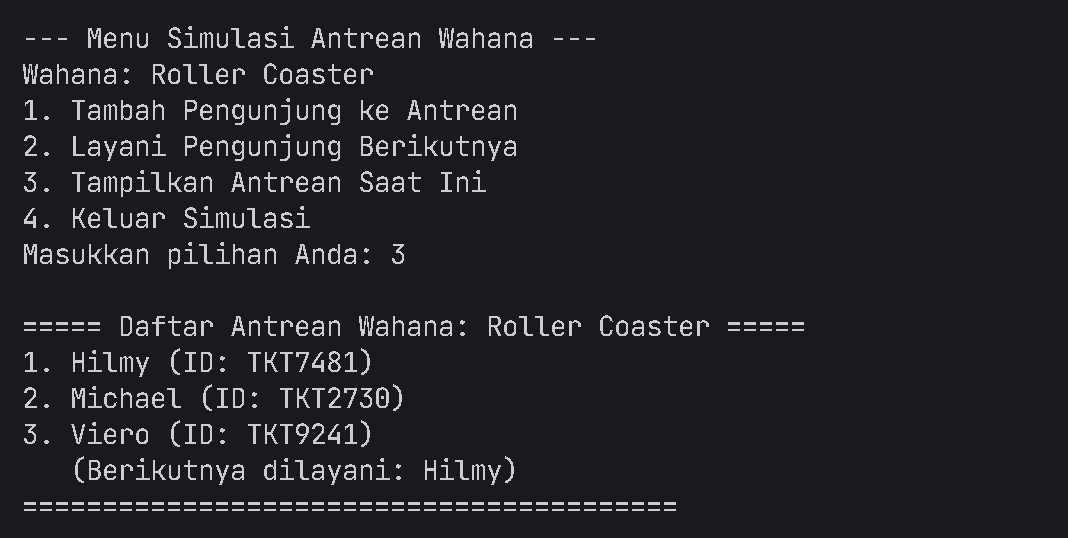
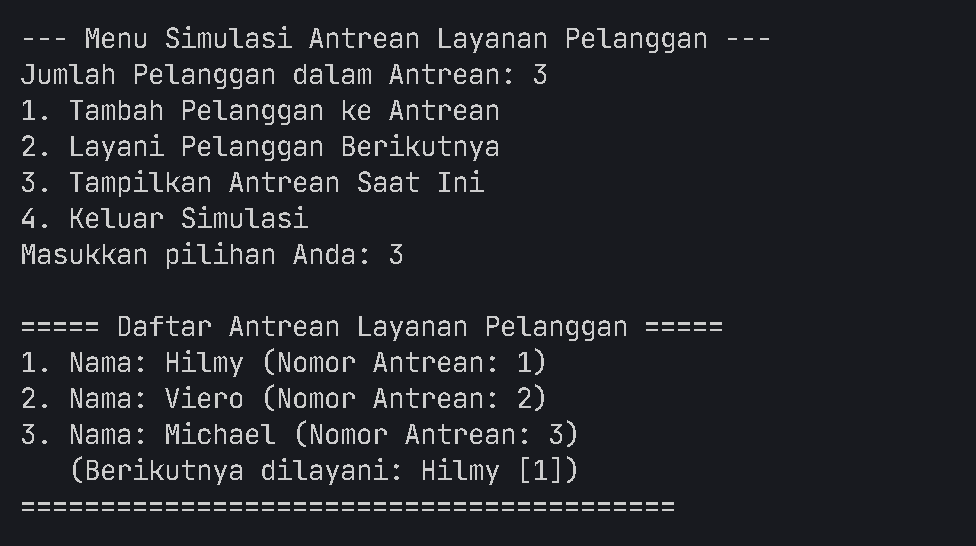
refactor: Adapt queue simulation for customer service context

diff --git a/Queue/AntreanLayananPelanggan.java b/Queue/AntreanLayananPelanggan.java
@@ -1,0 +1,101 @@
+package Queue; // Gunakan nama package yang sama
+
+import java.util.LinkedList;
+import java.util.Queue;
+
+
+/**
+ * Class untuk mengelola antrean layanan pelanggan menggunakan Queue berbasis LinkedList.
+ */
+public class AntreanLayananPelanggan {
+    // Menggunakan LinkedList sebagai implementasi Queue untuk Pelanggan
+    private Queue<Pelanggan> antrean;
+    private int nomorAntreanTerakhir; // Counter untuk nomor antrean berikutnya
+
+    public AntreanLayananPelanggan() {
+        this.antrean = new LinkedList<>(); // Inisialisasi antrean
+        this.nomorAntreanTerakhir = 0; // Mulai nomor antrean dari 0 (akan jadi 1 saat pertama kali tambah)
+        System.out.println("Sistem Antrean Layanan Pelanggan telah dibuka.");
+    }
+
+    /**
+     * Menambahkan pelanggan baru ke akhir antrean.
+     * @param namaPelanggan Nama dari pelanggan yang akan ditambahkan.
+     * @return Nomor antrean yang didapatkan pelanggan.
+     * @throws IllegalArgumentException jika nama pelanggan kosong.
+     */
+    public int tambahPelanggan(String namaPelanggan) {
+        // Validasi nama bisa dilakukan di sini atau di class Pelanggan
+        if (namaPelanggan == null || namaPelanggan.trim().isEmpty()) {
+             System.out.println("Gagal menambahkan: Nama pelanggan tidak boleh kosong.");
+             return -1; // Indikasi gagal
+             // atau throw new IllegalArgumentException("Nama pelanggan tidak boleh kosong.");
+        }
+
+        int nomorBaru = ++nomorAntreanTerakhir; // Increment dulu baru pakai
+        Pelanggan pelangganBaru = new Pelanggan(namaPelanggan, nomorBaru);
+        boolean berhasilDitambah = antrean.offer(pelangganBaru); // offer() lebih aman
+
+        if (berhasilDitambah) {
+            System.out.println("-> Pelanggan '" + pelangganBaru.getNama() + "' dengan nomor antrean [" + pelangganBaru.getNomorAntrean() + "] telah ditambahkan.");
+            return nomorBaru;
+        } else {
+            System.out.println("Gagal menambahkan pelanggan '" + namaPelanggan + "' ke antrean (Mungkin karena masalah kapasitas?).");
+            nomorAntreanTerakhir--; // Batalkan increment jika gagal
+            return -1; // Indikasi gagal
+        }
+    }
+
+    /**
+     * Melayani (mengeluarkan) pelanggan dari depan antrean.
+     * @return Pelanggan yang dilayani, atau null jika antrean kosong.
+     */
+    public Pelanggan layaniPelangganBerikutnya() {
+        Pelanggan pelangganDilayani = antrean.poll(); // poll() mengembalikan null jika antrean kosong
+        if (pelangganDilayani != null) {
+            System.out.println("<- Melayani: Pelanggan '" + pelangganDilayani.getNama() + "' (Nomor Antrean: " + pelangganDilayani.getNomorAntrean() + ").");
+        } else {
+            System.out.println("Antrean kosong, tidak ada pelanggan untuk dilayani saat ini.");
+        }
+        return pelangganDilayani;
+    }
+
+    /**
+     * Menampilkan semua pelanggan yang sedang dalam antrean.
+     */
+    public void tampilkanAntrean() {
+        System.out.println("\n===== Daftar Antrean Layanan Pelanggan =====");
+        if (antrean.isEmpty()) {
+            System.out.println("Antrean saat ini kosong.");
+        } else {
+            int i = 1;
+            // Iterasi tanpa mengubah antrean
+            for (Pelanggan p : antrean) {
+                System.out.println(i + ". Nama: " + p.getNama() + " (Nomor Antrean: " + p.getNomorAntrean() + ")");
+                i++;
+            }
+            // Menampilkan siapa yang berikutnya tanpa mengeluarkan
+            Pelanggan berikutnya = antrean.peek(); // peek() melihat elemen depan tanpa menghapus
+             if (berikutnya != null) {
+                 System.out.println("   (Berikutnya dilayani: " + berikutnya.getNama() + " ["+ berikutnya.getNomorAntrean() +"])");
+             }
+        }
+        System.out.println("=========================================\n");
+    }
+
+    /**
+     * Memeriksa apakah antrean kosong.
+     * @return true jika antrean kosong, false jika tidak.
+     */
+     public boolean isAntreanKosong() {
+         return antrean.isEmpty();
+     }
+
+     /**
+      * Mendapatkan jumlah pelanggan dalam antrean saat ini.
+      * @return Jumlah pelanggan dalam antrean.
+      */
+     public int getJumlahAntrean() {
+         return antrean.size();
+     }
+}

diff --git a/Queue/SimulasiLayananPelanggan.java b/Queue/SimulasiLayananPelanggan.java
@@ -1,0 +1,75 @@
+package Queue; // Gunakan nama package yang sama
+
+import java.util.Scanner;
+
+/**
+ * Class utama untuk menjalankan simulasi antrean layanan pelanggan.
+ */
+public class SimulasiLayananPelanggan {
+
+    public static void main(String[] args) {
+        // Membuat objek antrean untuk layanan pelanggan
+        AntreanLayananPelanggan antreanLayanan = new AntreanLayananPelanggan();
+        Scanner scanner = new Scanner(System.in);
+        int pilihan = 0;
+
+        do {
+            System.out.println("\n--- Menu Simulasi Antrean Layanan Pelanggan ---");
+            System.out.println("Jumlah Pelanggan dalam Antrean: " + antreanLayanan.getJumlahAntrean());
+            System.out.println("1. Tambah Pelanggan ke Antrean");
+            System.out.println("2. Layani Pelanggan Berikutnya");
+            System.out.println("3. Tampilkan Antrean Saat Ini");
+            System.out.println("4. Keluar Simulasi");
+            System.out.print("Masukkan pilihan Anda: ");
+
+            try {
+                // Membaca input sebagai string untuk menghindari masalah newline
+                String input = scanner.nextLine();
+                pilihan = Integer.parseInt(input);
+
+                switch (pilihan) {
+                    case 1:
+                        System.out.print("Masukkan nama pelanggan: ");
+                        String nama = scanner.nextLine();
+                        // Validasi dasar sudah ada di AntreanLayananPelanggan
+                        int nomor = antreanLayanan.tambahPelanggan(nama);
+                        if (nomor != -1) {
+                            // Pesan sukses sudah dicetak di dalam metode tambahPelanggan
+                        }
+                        break;
+                    case 2:
+                        Pelanggan dilayani = antreanLayanan.layaniPelangganBerikutnya();
+                        if (dilayani != null) {
+                           // Pesan sudah dicetak di dalam metode layaniPelangganBerikutnya
+                        }
+                        break;
+                    case 3:
+                        antreanLayanan.tampilkanAntrean();
+                        break;
+                    case 4:
+                        System.out.println("Mengakhiri simulasi antrean layanan pelanggan. Terima kasih!");
+                        break;
+                    default:
+                        System.out.println("Pilihan tidak valid (1-4). Silakan coba lagi.");
+                }
+            } catch (NumberFormatException e) {
+                System.out.println("Input tidak valid. Masukkan angka pilihan menu (1-4).");
+            } catch (Exception e) {
+                // Menangkap exception lain jika terjadi
+                System.out.println("Terjadi kesalahan: " + e.getMessage());
+                e.printStackTrace(); // Cetak stack trace untuk debugging jika perlu
+            }
+
+            // Beri jeda singkat agar output lebih mudah dibaca (opsional)
+            // try {
+            //      if (pilihan != 4) Thread.sleep(300);
+            // } catch (InterruptedException e) {
+            //     Thread.currentThread().interrupt();
+            // }
+
+        } while (pilihan != 4);
+
+        scanner.close(); // Tutup scanner
+        System.out.println("Scanner ditutup.");
+    }
+}

diff --git a/Queue/Pelanggan.java b/Queue/Pelanggan.java
@@ -1,0 +1,32 @@
+package Queue; // Ganti nama package jika perlu
+
+/**
+ * Class untuk merepresentasikan pelanggan dalam antrean layanan.
+ */
+public class Pelanggan {
+    private String nama;
+    private int nomorAntrean; // Menggunakan nomor antrean sederhana
+
+    // Constructor diubah untuk menerima nomor antrean saat dibuat
+    public Pelanggan(String nama, int nomorAntrean) {
+        if (nama == null || nama.trim().isEmpty()) {
+            throw new IllegalArgumentException("Nama pelanggan tidak boleh kosong.");
+        }
+        this.nama = nama;
+        this.nomorAntrean = nomorAntrean;
+    }
+
+    public String getNama() {
+        return nama;
+    }
+
+    public int getNomorAntrean() {
+        return nomorAntrean;
+    }
+
+    @Override
+    public String toString() {
+        // Representasi string dari objek Pelanggan
+        return "Pelanggan [Nama: " + nama + ", Nomor Antrean: " + nomorAntrean + "]";
+    }
+}
